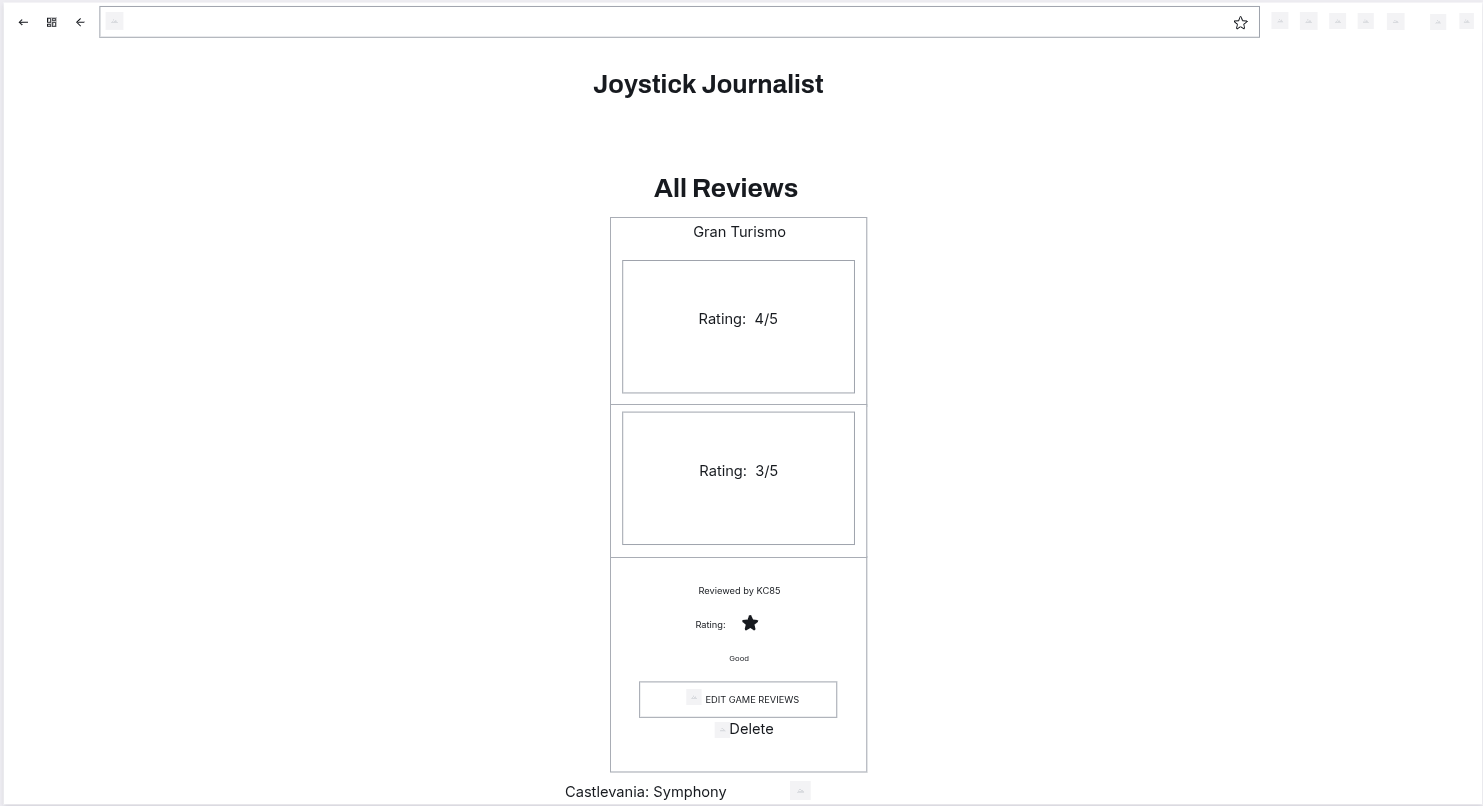
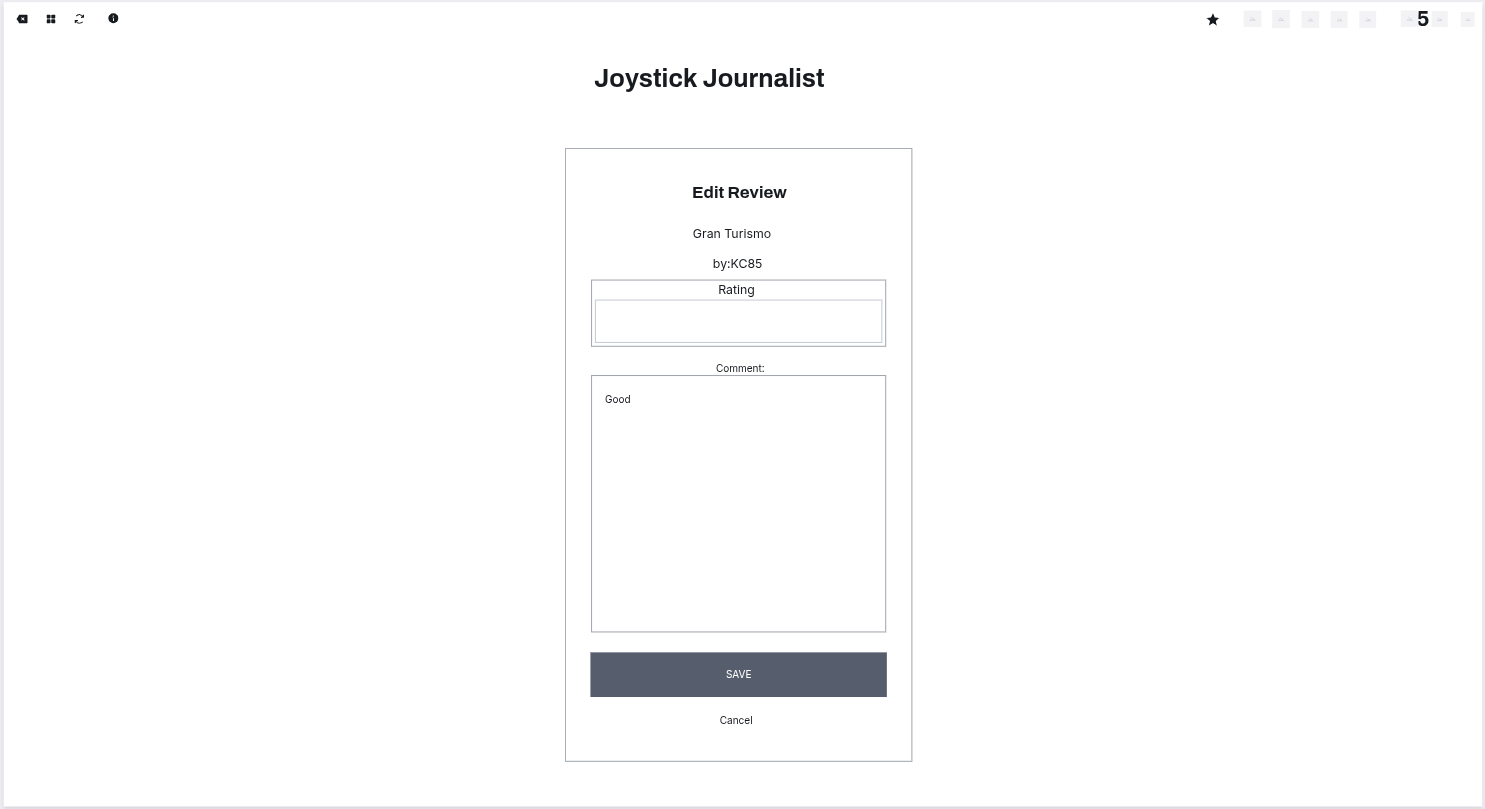
Replace desktop edit rewiew with correct wireframe screenshot. Add desktop add review into readme table and into wireframes

diff --git a/README.md b/README.md
@@ -167,8 +167,8 @@ I've used [Balsamiq](https://balsamiq.com/wireframes) to design my site wirefram
 | Login | ![screenshot](documentation/wireframes/mobile-login.png) | ![screenshot](documentation/wireframes/tablet-login.png) | ![screenshot](documentation/wireframes/desktop_login.png) |
 | Landing Page | ![screenshot](documentation/wireframes/mobile-home.png) | ![screenshot](documentation/wireframes/tablet-home.png) | ![screenshot](documentation/wireframes/desktop_landing_page.png) |
 | Add Game | ![screenshot](documentation/wireframes/mobile_add_game.png) | ![screenshot](documentation/wireframes/tablet-add-blog.png) | ![screenshot](documentation/wireframes/desktop_add_game.png) |
-
 | Delete Game | ![screenshot](documentation/wireframes/mobile-blog-post.png) | ![screenshot](documentation/wireframes/tablet-blog-post.png) | ![screenshot](documentation/wireframes/desktop-blog-post.png) |
+| Add Review | ![screenshot](documentation/wireframes/mobile-blog-post.png) | ![screenshot](documentation/wireframes/tablet-blog-post.png) | ![screenshot](documentation/wireframes/desktop_add_review.png) |
 | Edit Review | ![screenshot](documentation/wireframes/mobile-blog-post.png) | ![screenshot](documentation/wireframes/tablet-blog-post.png) | ![screenshot](documentation/wireframes/desktop_edit_review.png) |
 | All Reviews | ![screenshot](documentation/wireframes/mobile-blog-post.png) | ![screenshot](documentation/wireframes/tablet-blog-post.png) | ![screenshot](documentation/wireframes/desktop_all_reviews.png) |
 | 404 | ![screenshot](documentation/wireframes/mobile-404.png) | ![screenshot](documentation/wireframes/tablet-404.png) | ![screenshot](documentation/wireframes/desktop_404.png) |
